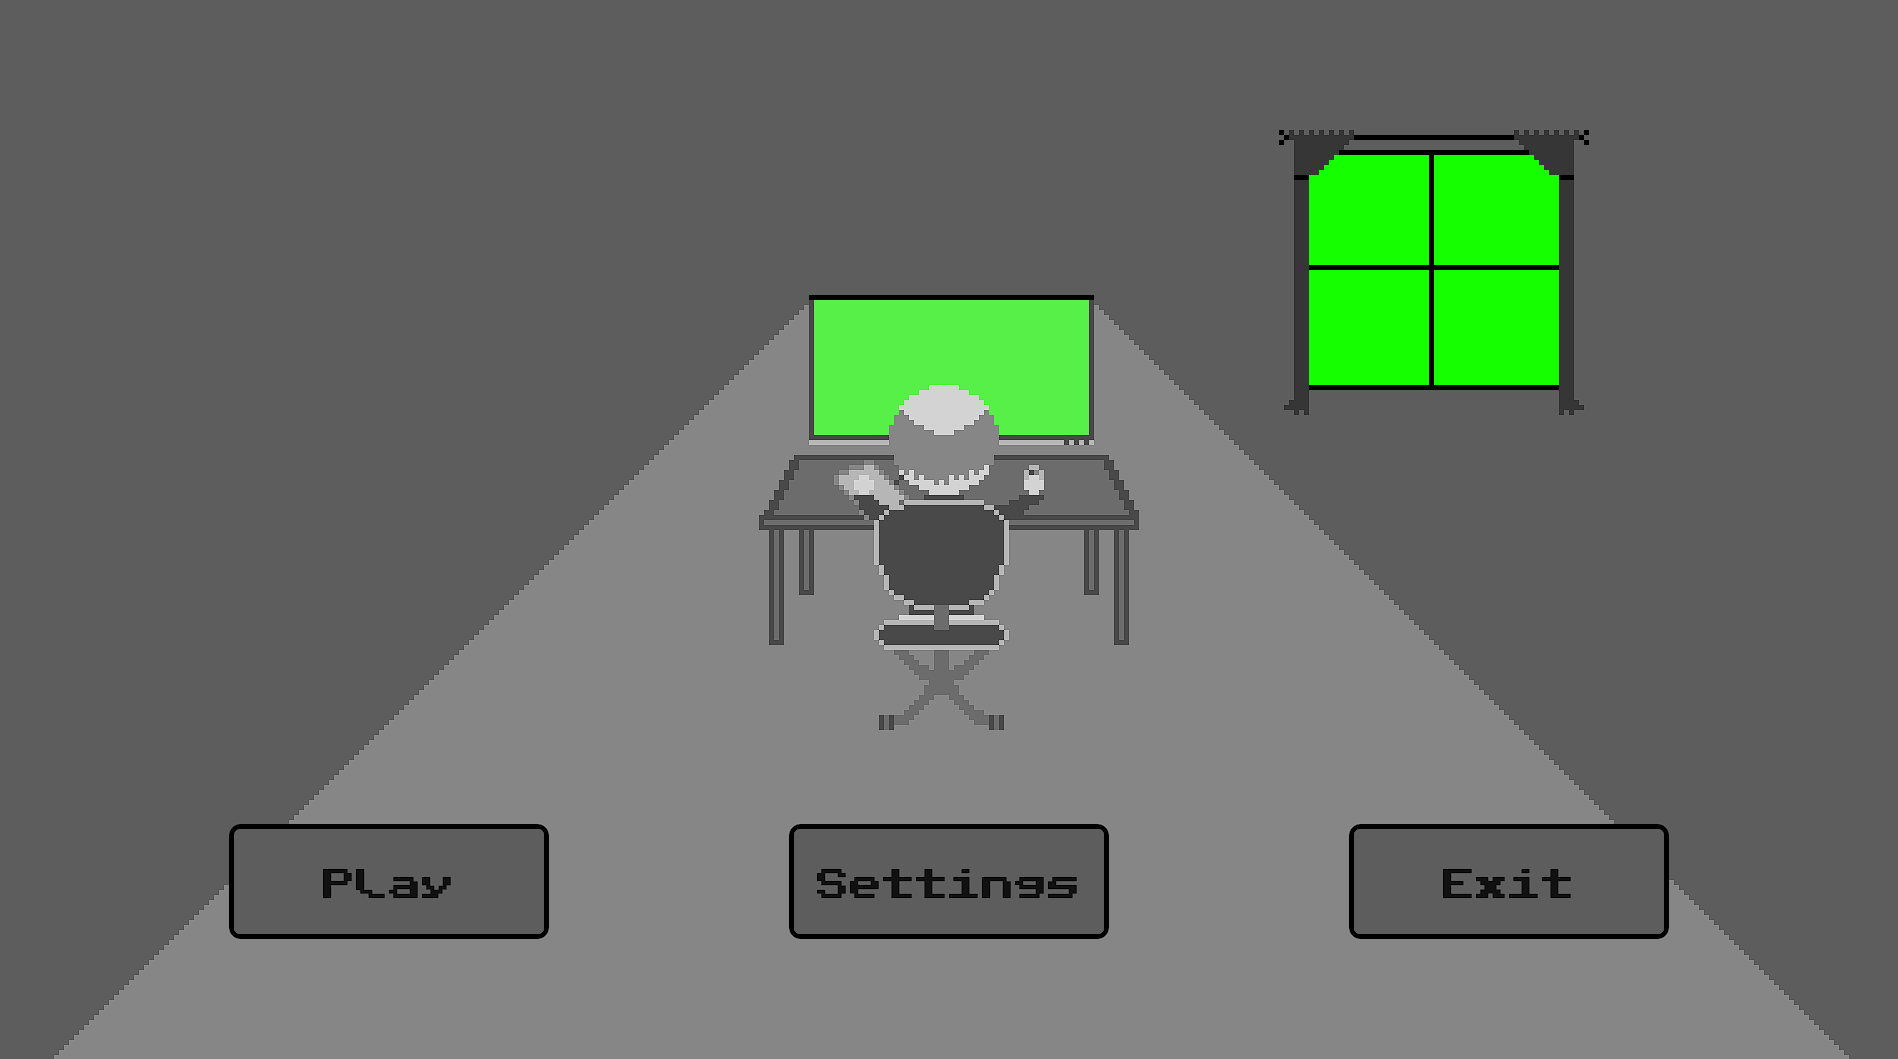
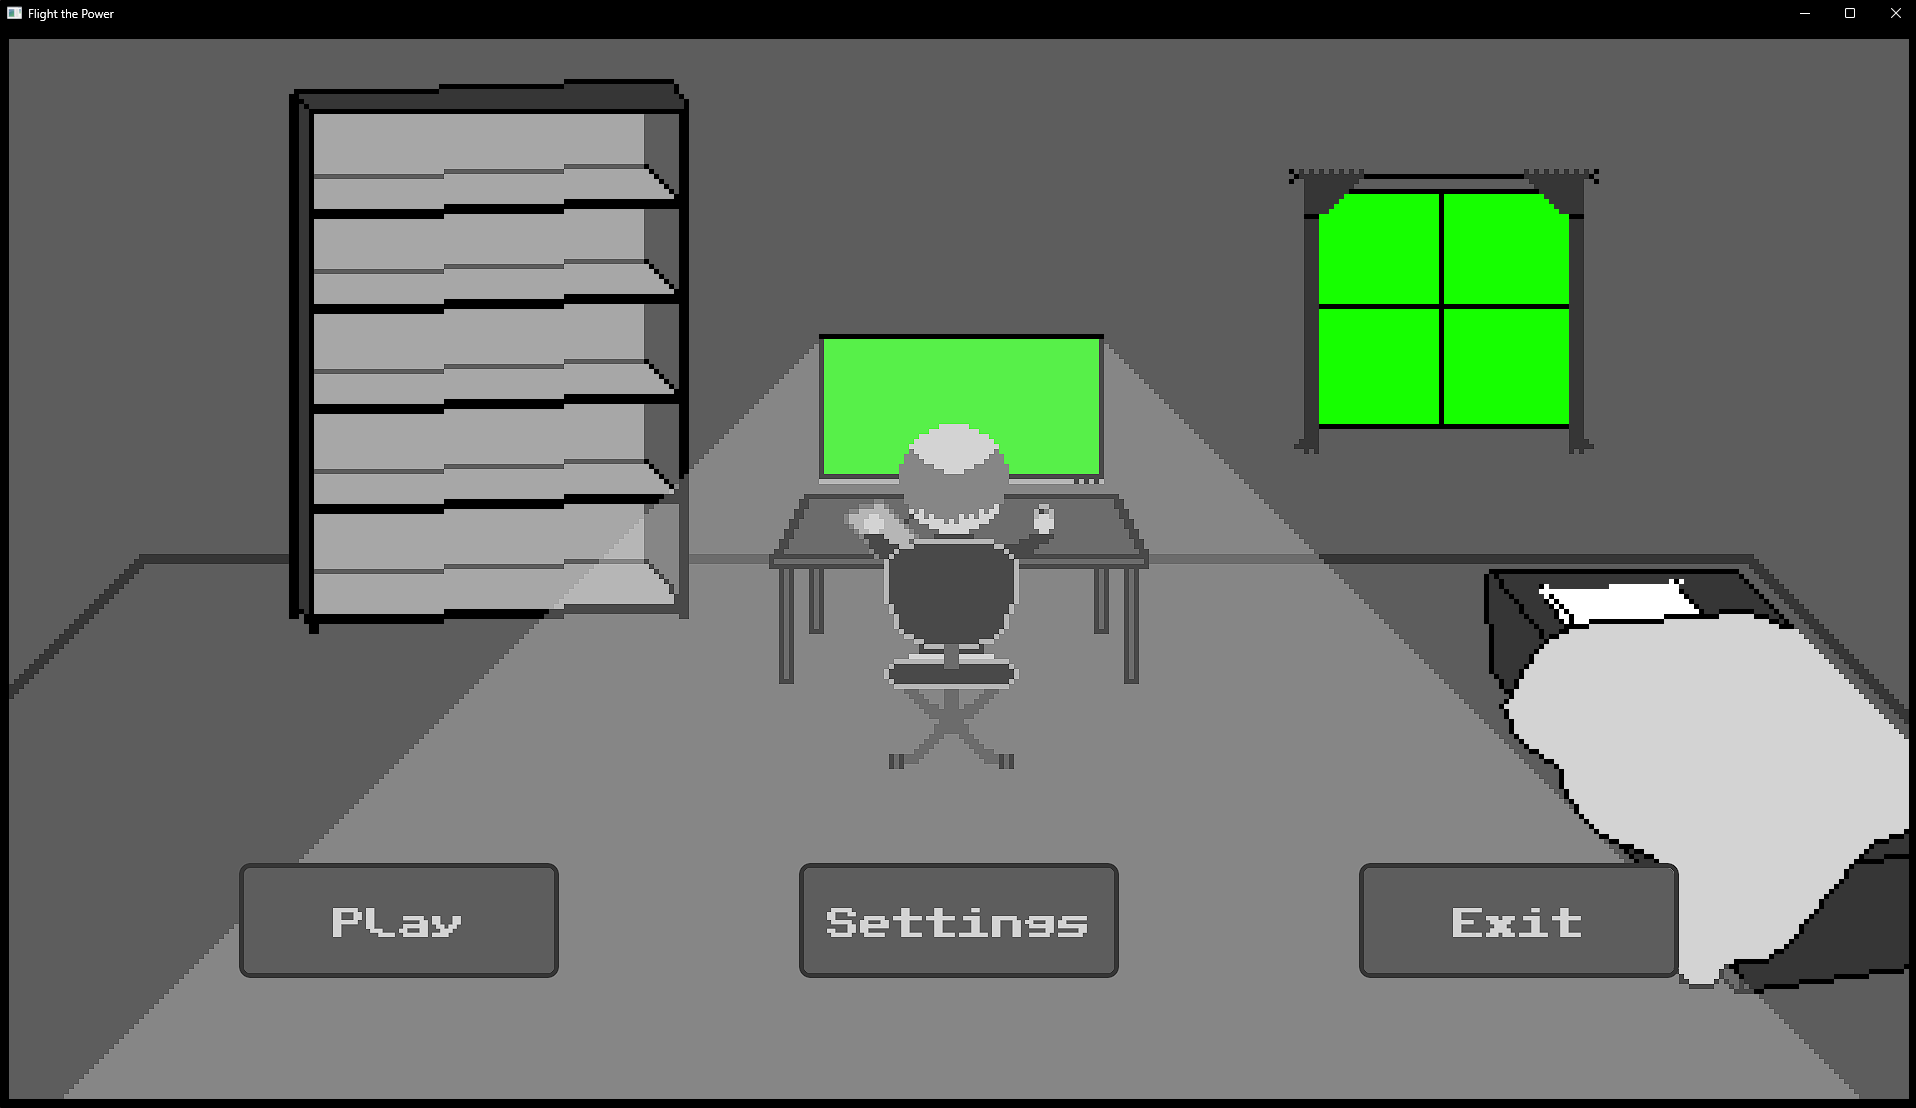
update images, +button cleanup

diff --git a/src/todo.rs b/src/todo.rs
@@ -1,0 +1,11 @@
+//TODO: (BY PRIORITY) ((IN PROGRESS))
+//
+// Finish bedroom scene
+// Game Controls
+//
+//
+//
+//
+// Web
+// Save System
+// Animations
